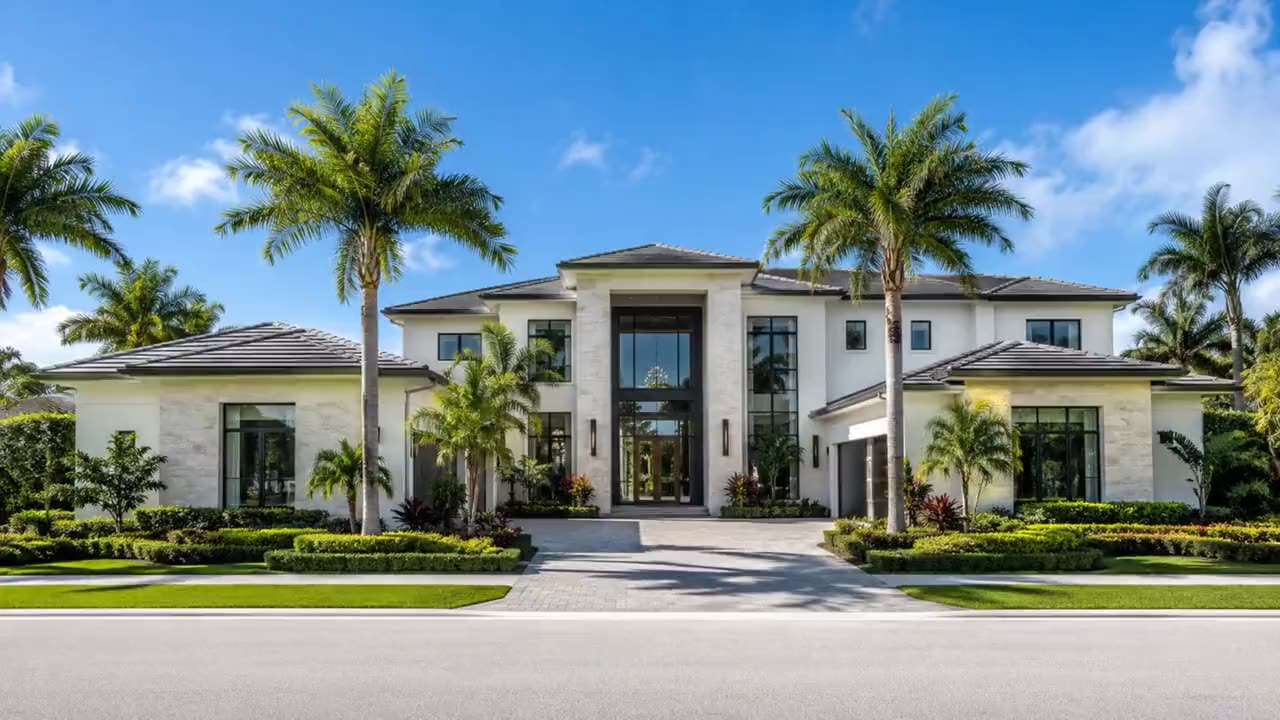
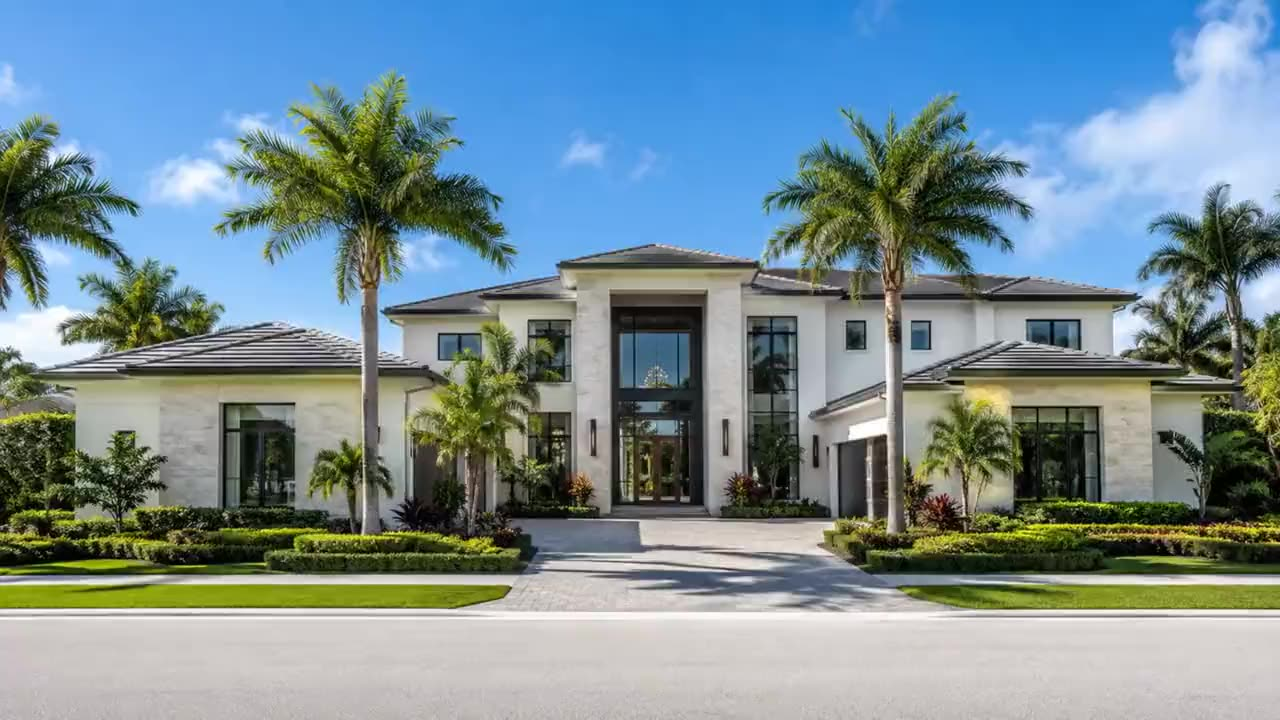
Smoother scrub: 50fps film, longer fades, seek-guarded playhead
Re-rendered at 50fps (double frame density = fine-grained scrub steps),
fades extended 0.6s->0.8s, dense keyframes (0.1s GOP) for instant seeks,
and the ticker never issues a seek while one is in flight (dropped seeks
were the visible jumping). Measured monotonic scrub, zero reversals.

Claude-Session: https://claude.ai/code/session_01UrjAbDtBdjEiKgZ6nbpxUH

diff --git a/components/sections/CinematicHome.tsx b/components/sections/CinematicHome.tsx
@@ -26,8 +26,8 @@ import { siteConfig } from "@/config/site";
  */
 
 const UNIT_SCROLL = 140; // vh of scroll per room
-/** Must match the render: 36 clips × 1.4s step + tail. */
-const VIDEO_FALLBACK_DURATION = 50.4;
+/** Must match the render: 36 clips × 1.4s step + tail (50fps master). */
+const VIDEO_FALLBACK_DURATION = 50.2;
 
 export function CinematicHome() {
   const ref = useRef<HTMLDivElement>(null);
@@ -102,10 +102,16 @@ export function CinematicHome() {
         let current = 0;
         const tick = () => {
           if (!video) return;
-          current += (target - current) * 0.14;
+          current += (target - current) * 0.12;
           const dur = video.duration || VIDEO_FALLBACK_DURATION;
           const t = Math.min(current * dur, dur - 0.05);
-          if (Math.abs(t - video.currentTime) > 1 / 30 && video.readyState >= 2) {
+          // Never issue a seek while one is in flight — dropped seeks are
+          // what reads as "jumping" while scrubbing.
+          if (
+            !video.seeking &&
+            video.readyState >= 2 &&
+            Math.abs(t - video.currentTime) > 1 / 50
+          ) {
             video.currentTime = t;
           }
         };